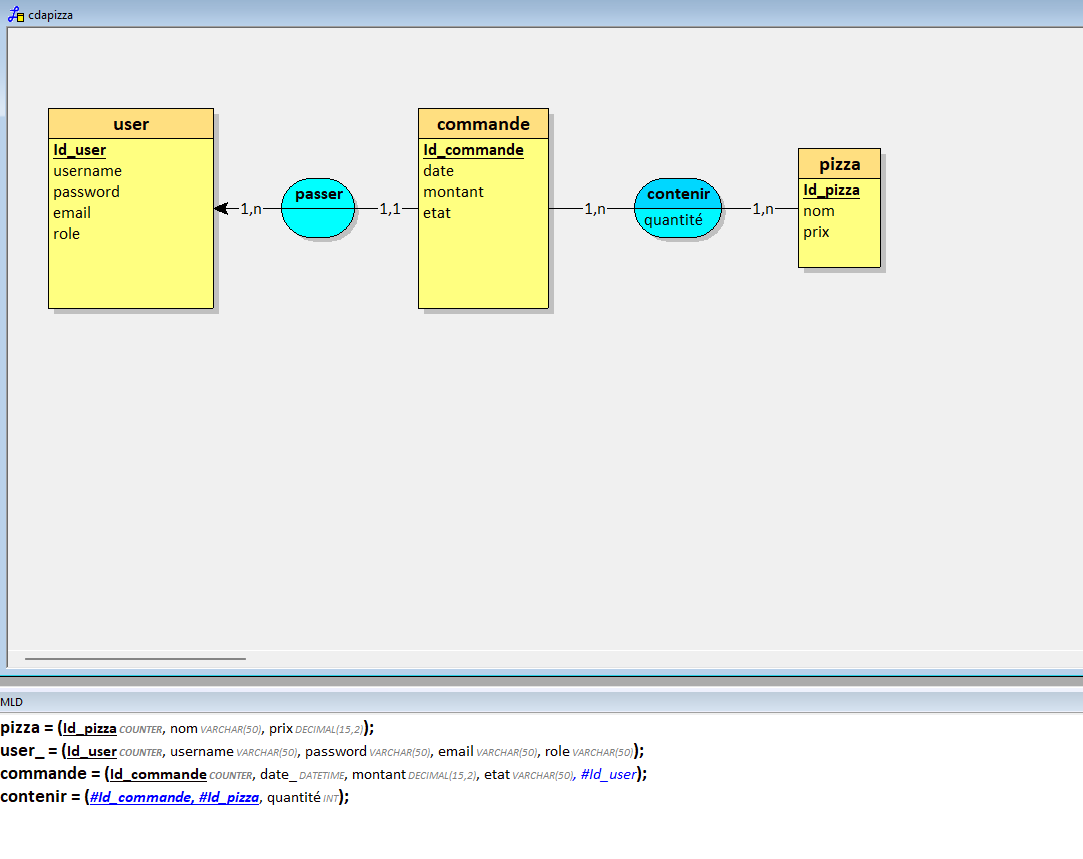
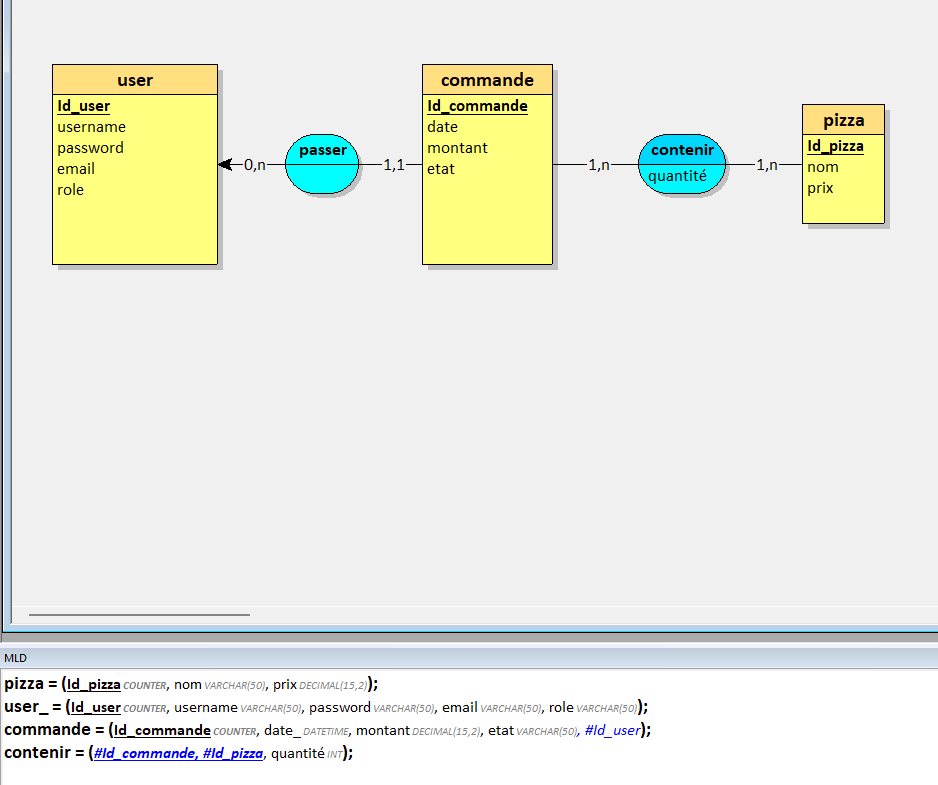
update doc

Changed region(s): [[0.0, 0.0, 1.0, 0.9783]]

diff --git a/readme.md b/readme.md
@@ -1,4 +1,28 @@
-```
+# CDAPizza API avec Spring Boot
+
+API REST faite avec Spring Boot, MySQL et Docker Compose.
+
+## Technos
+
+- Java 25 / Spring Boot
+- Spring Data JPA + Hibernate 7
+- MySQL 8 (via Docker)
+- phpMyAdmin (via Docker)
+- Maven (wrapper inclus)
+
+## Prérequis
+
+
+- [JDK 21+](https://adoptium.net) installé et `JAVA_HOME` configuré
+- [Docker Desktop](https://www.docker.com/products/docker-desktop/) installé
+- [IntelliJ IDEA](https://www.jetbrains.com/idea/) (recommandé)
+
+## Lancer le projet
+
+Lancer : `docker compose up -d`
+
+
+### Infos
 
 CDAPizza est une application web interne développée pour une pizzeria dans le cadre d'un POC CDAP. 
 Elle digitalise la gestion des commandes en temps réel entre le guichet et la cuisine.
@@ -9,4 +33,3 @@ La sécurité est assurée par JWT stocké en cookie HttpOnly, BCrypt pour les m
 L'application gère trois rôles distincts : le client peut s'inscrire, passer des commandes et suivre leur état ; la caisse visualise toutes les commandes et fait évoluer leur statut de PAYER à LIVRER ; la cuisine fait de même et gère en plus le catalogue de pizzas.
 Deux règles métier automatiques sont implémentées : une remise de 10% toutes les 3 commandes pour fidéliser les clients, et une remise de 5% dès 5 pizzas commandées, cumulables jusqu'à −15%. Les commandes de la cuisine se rafraîchissent automatiquement toutes les 5 secondes via polling.
 
-```